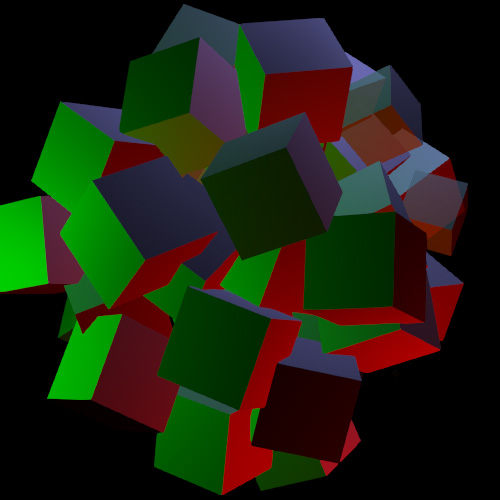
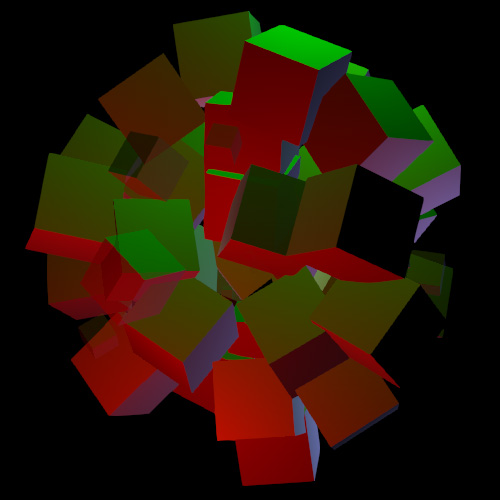
fixed rotation to face center

diff --git a/20160708/sketch.js b/20160708/sketch.js
@@ -161,9 +161,8 @@ function Block(parent){
     this.pos.add(this.vec);
     this.vec.multiplyScalar(this.damping);
     this.obj.position.copy(this.pos);
-    // orient object rotation to always be radial around center
-    var rot = this.pos.clone().normalize().multiplyScalar(Math.PI)
-    this.obj.rotation.set(rot.x, rot.y, rot.z);
+    // orient object rotation to always face center
+    this.obj.lookAt(new THREE.Vector3(0,0,0));
     this.obj.geometry.verticesNeedUpdate = true;
 
     if(this.growing){
@@ -171,10 +170,7 @@ function Block(parent){
       if(p < 1){
         var sp = this.sinProgress(p);
         this.obj.scale.set(sp,sp,sp);
-        //this.obj.material.opacity = sp;
-        //this.obj.position.copy(this.targetPos.clone().multiplyScalar(sp));
-        //this.obj.rotation.set(Math.PI/2, this.rot - ((1-sp)*Math.PI), 0);
-      } else {
+    } else {
         this.growing = false;
         this.holding = true;
         this.growStart = Date.now();
@@ -192,8 +188,6 @@ function Block(parent){
         var sp = this.sinProgress(p);
         this.obj.scale.set(1-sp,1-sp,1-sp);
         this.obj.material.opacity = 1-sp;
-        //this.obj.position.copy(this.targetPos.clone().multiplyScalar(1+sp));
-        //this.obj.rotation.set(Math.PI/2, this.rot - (sp*Math.PI), 0);
       } else {
         this.shrinking = false;
         this.dead = true;
